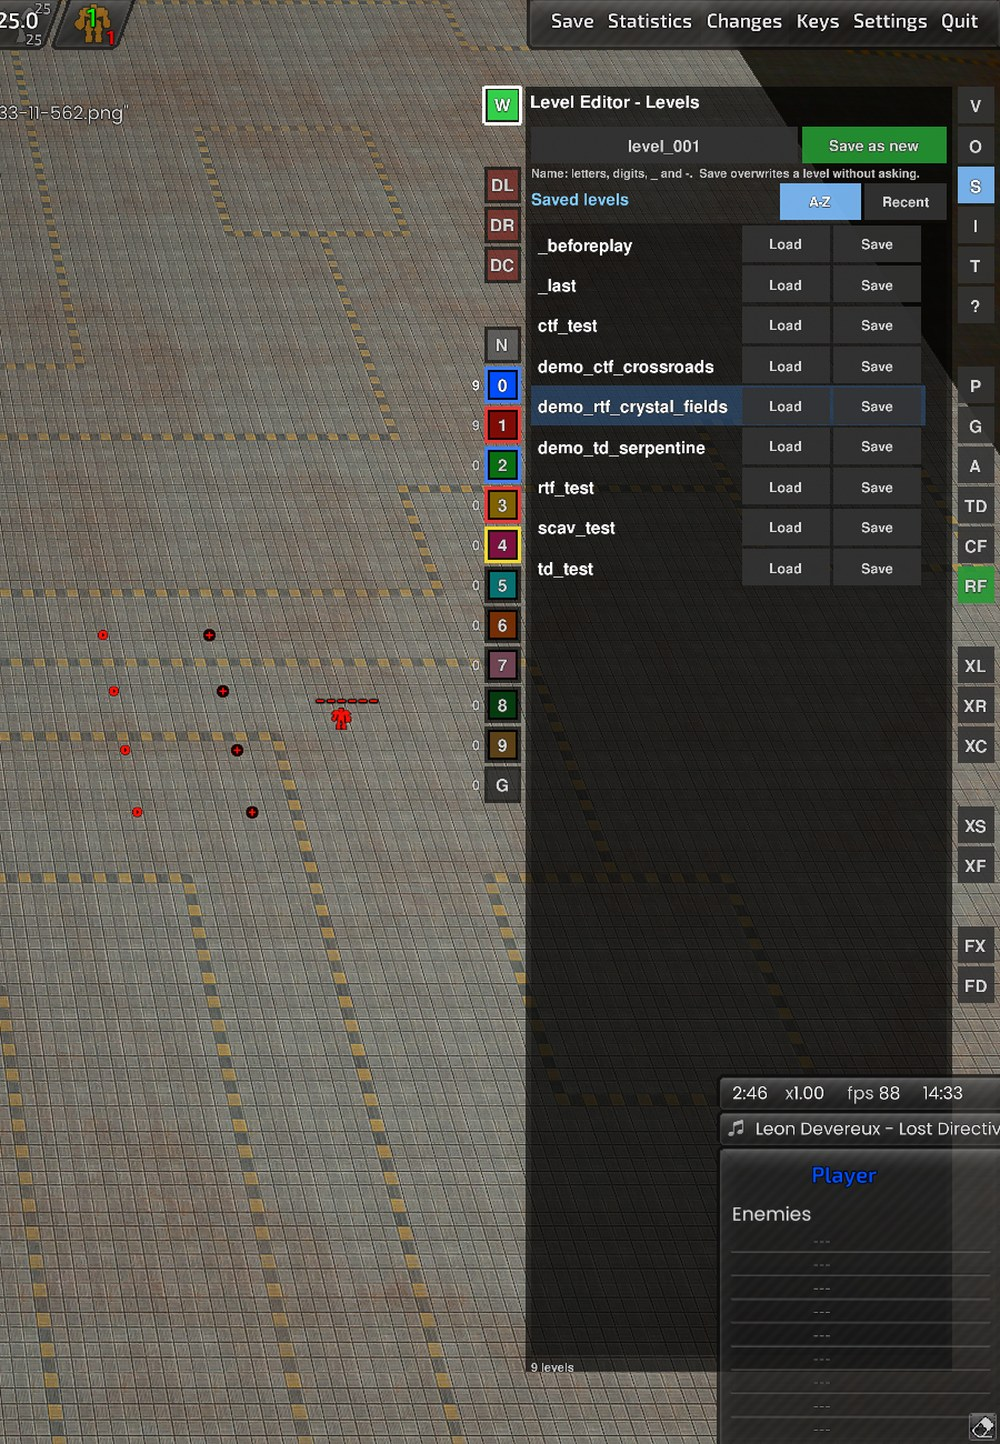
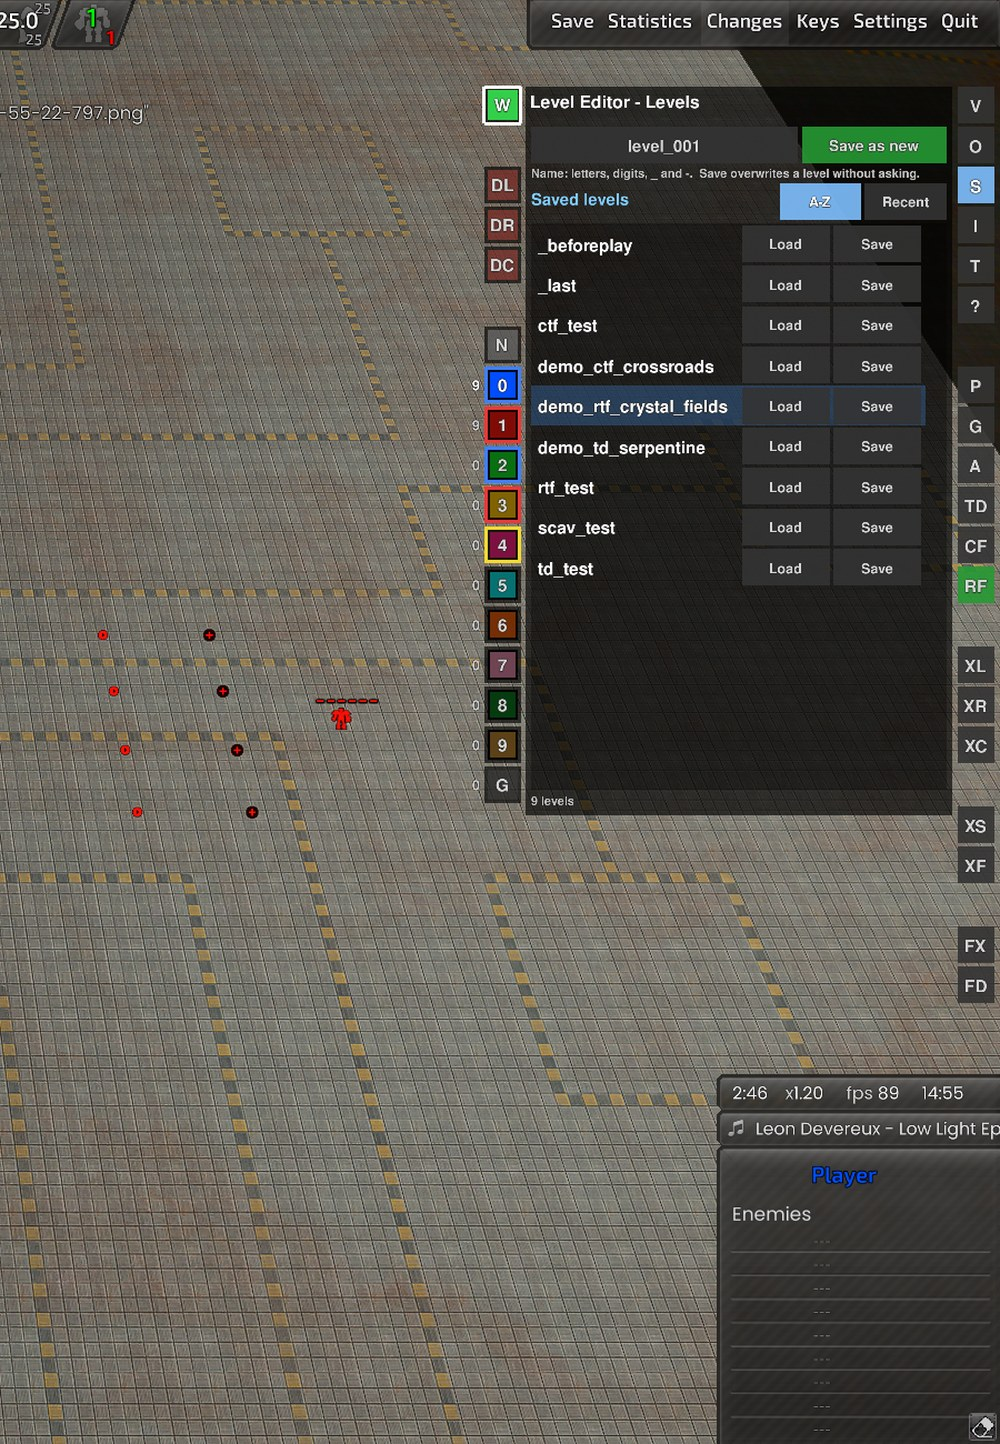
Save page S: the page ends at the lower edge of the Gaia button of the team strip (measured with teamRectsRaw(topY)), no longer at 5 % of the screen height, so the widgets at the lower right stay visible; picture retaken
Claude-Session: https://claude.ai/code/session_01QeCYKn7fqMf4y4C8NkAq1r

Changed region(s): [[0.527, 0.5298, 1.0, 0.9661], [0.0, 0.0623, 0.155, 0.0935], [0.062, 0.0, 0.124, 0.0312]]

diff --git a/specs/level-editor.md b/specs/level-editor.md
@@ -89,7 +89,7 @@ Tiles, sorting, renaming, trash and format: [Shared code](shared-code.md), "Tile
 - **Levels (button S, page `led_save.lua`):** the list of all `LevelEditor/*.lua` (without internal files with `_`, except `_last` and `_beforeplay`) has a page of its own; the widget keeps one local variable `sv` and gives the page a `host` (`Shared`, `S()`, `say`, `outDir`, `currentLevel()`, `saveLevel`, `loadLevel`, `runningModes`).
   - Top: the name field (`svname`, filled with the first free `level_NNN`; click, type, Enter accepts, Esc undoes; letters, digits, `_` and `-`, at most 40 characters, not starting with `_`) and `Save as new` (`svnew`). A name that exists (in any case) is refused with a message; overwriting is the job of the row buttons.
   - Sort buttons `A-Z` / `Recent` (`svsort`); the choice and the levels used last are kept in `LuaUI/Config/LevelEditorSave.lua` (`sort`, `recent`, newest first, at most 200). `sv.touch(name)` is called by `saveLevel` and `load_level` for every level that does not start with `_`; levels never used come after the used ones, then A-Z.
-  - The list shows 6 to 12 rows according to the number of levels, but the page is always tall enough to reach down to the Gaia button of the team strip (`host.minHeight`: from the top edge to 5 % of the screen height; the list gets the extra rows), a scrollbar (`Shared.scrollbarDraw` / `scrollbarPress`; `sv.lg` is its "grid": `.scroll` and `:maxScroll(rect)` in rows) and the mouse wheel scroll it. The current level has a blue bar. Per row `Load` (`svload`, a second click confirms, a running test of a game mode is stopped first) and `Save` (`svsave`, overwrites at once, without a question; if a test is running it is stopped and the button must be pressed again).
+  - The list shows 6 to 12 rows according to the number of levels, but the page is always tall enough to reach down to the lower edge of the Gaia button of the team strip (`host.minHeight` measures the strip with `teamRectsRaw(topY)`; the list gets the extra rows; not further, the widgets at the lower right would hide it), a scrollbar (`Shared.scrollbarDraw` / `scrollbarPress`; `sv.lg` is its "grid": `.scroll` and `:maxScroll(rect)` in rows) and the mouse wheel scroll it. The current level has a blue bar. Per row `Load` (`svload`, a second click confirms, a running test of a game mode is stopped first) and `Save` (`svsave`, overwrites at once, without a question; if a test is running it is stopped and the button must be pressed again).
   - Ctrl+S (`saveCurrentLevel`) saves under the current name, otherwise under `sv.suggest()`.
 
 ## 4. Button column and strip
